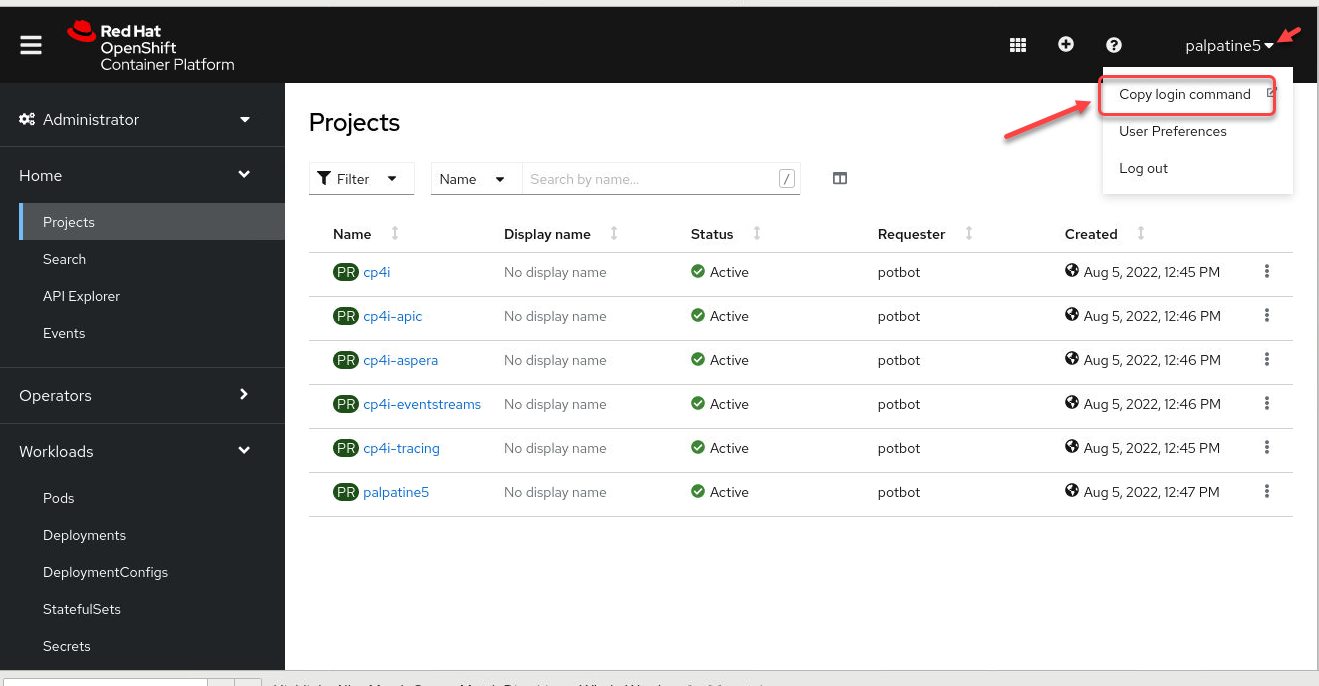
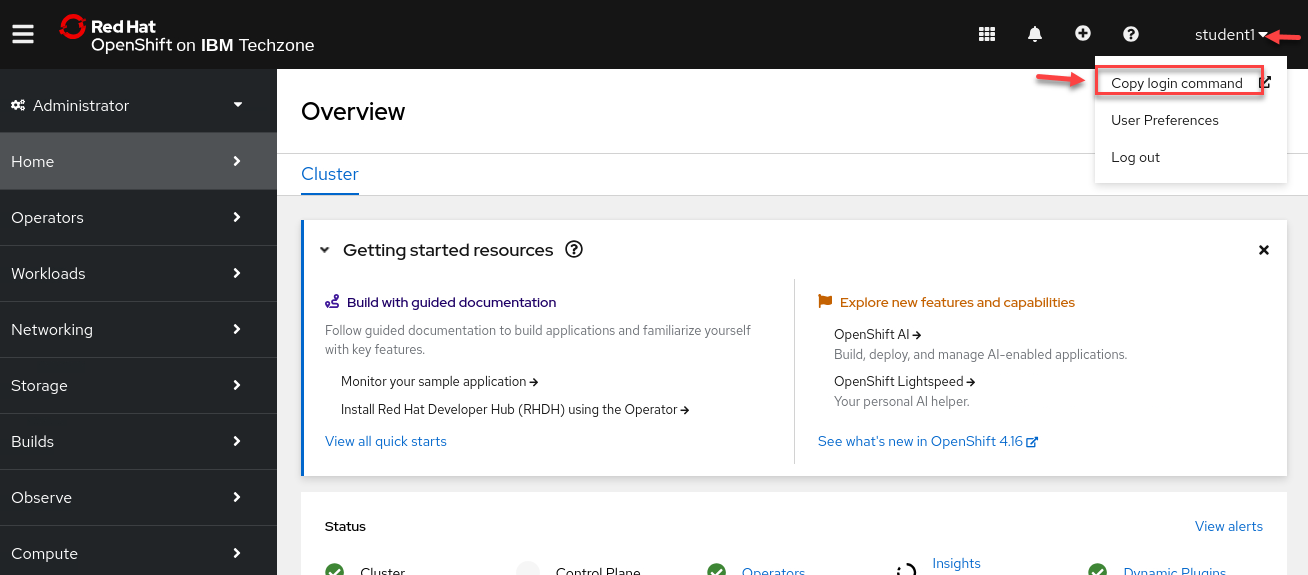
Update MQ labs

diff --git a/MQ/Lab_3/Readme.md b/MQ/Lab_3/Readme.md
@@ -33,16 +33,6 @@ If you are doing this lab out of order return to [Environment Setup](../envsetup
 
 The lab guide assumes you are using the RHEL desktop VM from the IBM Asset Repo. If you are using another platform, you can download the necessary artifacts from the github repo. The instructor will provide directions.
 
-**Note**: The screen shots were taken on a test cluster and many will not match what you see when running the lab. Particularly URL values will be different depending on the cluster where CP4I is running. Projects (Namespaces) may also vary. It is important to follow the directions, not the pictures.
-
-#### Further information
-
-* [IBM MQ Knowledge Center](https://www.ibm.com/docs/en/ibm-mq/9.2?topic=mq) 
-* “Building scalable fault tolerant systems with IBM MQ 9.1.2 CD” article by David Ware, STSM, Chief Architect, IBM MQ: 
-[David Ware article](https://developer.ibm.com/messaging/2019/03/21/building-scalable-fault-tolerant-ibm-mq-systems/)
-* “Active/active IBM MQ with Uniform Clusters” video by David Ware:
-[YouTube Demo Video](https://www.youtube.com/watch?v=LWELgaEDGs0&feature=youtu.be)
-
 ## Configure the cluster using yaml
 
 1. Open a Firefox web browser by double-clicking the icon on the desktop.
@@ -51,30 +41,35 @@ The lab guide assumes you are using the RHEL desktop VM from the IBM Asset Repo.
 	
 1. Navigate to the URL for the OCP console provided in your PoT email. If required to log in use the userid / password provided in the email.
 
-	![](./images/image304.png)
+	![](./images/image304a.png)
+
+	![](./images/image304b.png)
 
 1. Then add another browser tab by clicking the "+" sign and opening the *CP4I Navigator* URL for the platform navigator provided in your PoT email.
 
-	![](./images/image306.png)
+	![](./images/image304c.png)
 
 1. You may still be logged in from the previous labs. If your platform navigator session timed out, you may be required to log-in again.
 
 	
 1. Once the navigator opens, right click on the **Integration instances** and open in a new tab.
 
-	![](./images/image306b.png)
+	![](./images/image304d.png)
 	
 1. If you ran the *Cleanup* step in prior labs there should be none of your queue managers running. However there may be other's instances running. 
 
-	![](./images/image308.png)
+	![](./images/image304e.png)
 	
 	If you have any remaining *mqxx* (xx = your student ID), delete them now.
 
 1. Open a new terminal window by double-clicking the icon on the desktop.
 
-	![](./images/pots/mq-cp4i/lab2/image1a.png)
+	![](./images/image1a.png)
 
 1. Navigate to the */MQonCP4I/unicluster/* directory using the following commnand:
+	```
+	cd ~/MQonCP4I/unicluster
+	```
 
 1. There are two subdirectories, *deploy* and *test*. Change to the *deploy* directory.
 
@@ -124,20 +119,18 @@ The lab guide assumes you are using the RHEL desktop VM from the IBM Asset Repo.
 The queue managers will be in a *Pending* state for a couple of minutes while they are provisioned.
  
  	![](./images/image214.png)
-		
-1. On the *OpenShift Console* you can watch the pods as they create containers. Click *Workloads* then select *Pods*. You will see a pod for each queue manager and you will see states of *Pending*, *Container creating*, and then *Running*.
-
-	![](./images/image312.png)
-	
-	![](./images/image313.png)
 
 1. After a few minutes the queue managers will then show *Ready* on the *Platform Navigator* and the pods will show *Running* on the *OpenShift Console*.
-	
-	![](./images/image315.png)
-	
-	![](./images/image314.png)
 
-1. Your cluster is also now completely configured. Check this from the *MQ Console* of one of thee queue managers. Click the hyperlink for your mq..a
+ 	![](./images/image214.png)
+
+## Check uniform cluster health
+
+If you like you can go to **Appendix A** which has directions for testing Uniform cluster using **MQExplorer**
+
+But with all the new features that have been added to the **MQ Console** you can verify the cluster using the MQ console.  This section will hightlight the MQ console.
+
+1. Your cluster is also now completely configured. Check this from the *MQ Console* of one of three queue managers. Click the hyperlink for your mq..a
 
 	![](./images/image20.png)
 	
@@ -151,13 +144,13 @@ The queue managers will be in a *Pending* state for a couple of minutes while th
 	
 1. You will see the two local queues **APPQ** and **APPQ2** which were defined by the mqsc *ConfigMap* defined in the yaml template. The other queue managers also have the queues by that name. 
 
-	![](./images/image23.png)
+	![](./images/image22a.png)
 	
 	Click *Communication*.
 	
 1. The listener *SYSTEM.LISTENER.TCP.1* is running. 
 
-	![](./images/image24.png)
+	![](./images/image22b.png)
 	
 	Click *App channels*.
 		
@@ -165,116 +158,20 @@ The queue managers will be in a *Pending* state for a couple of minutes while th
 
 **NOTE:** Make note of the MQ00CHLA name you will have one for each Qmgr and will use that in connecting with MQ Explorer.
 
-![](./images/image25.png)
+![](./images/image22c.png)
 	
 	Click *Queue manager channels*.
 	
 1. Here you find your cluster channels. If you looked closely at the yaml template, you'll remember that your *mqxxa* and *mqxxb* are the primary repositories for your cluster *UNICLUSxx*. While looking at *mqxxa* you see a cluster receiver channel **TO_UNICLUS_MQ00A** and two cluster sender channels **TO_UNICLUS_MQ00B** and **TO_UNICLUS_MQ00C**. They should be *Running*. 
 	
-	![](./images/image26.png)
+	![](./images/image22d.png)
 	
 	Click *View Configuration* in the top right corner.
-
-1. The queue manager properties are displayed. Click *Cluster* to see the cluster properties where you see your cluster name - UNICLUSxx.
-
-	![](./images/image27.png)
 
 1. You can check the other queue manager's console to verify that they are all configured the same. You should have verified that when reviewing the yaml template.
 
 	You are all set, time for testing.
 
-## Test uniform cluster
-
-### Perform health-check on Uniform Cluster
-
-Before proceeding, we need to check the cluster is up and running.
-1. Open a new terminal window.
- 
- Enter the following command to start MQ Explorer making sure to use the correct case:
-
-	```
-	MQExplorer
-	```
-	
- ![](./images/image247.png)
-
-1. When the utility is ready, right-click *Queue Managers* and select *Add Remote Queue Manager*.
-
-	![](./images/image248.png)
-
-1. Enter your queue manager name using your student ID. Click *Next*.
-
-	![](./images/image249.png)
-
-1. We will now need to get the hostname for this Qmgr to connect to it outside the OCP cluster to MQExplorer.   
-Run the following command 
-
-```
-oc get route -n melch1 | grep mq01a
-```
-Copy the hostname 
-	![](./images///image249a.png)
-
-*	Enter the value from the *hostname* above. 
-*	Enter **443** for the *Port number*.
-*	Enter your SVRCONN channel name in the *Server-connection channel* field.
-	
-	**Note** for the uniform cluster lab do not click the checkbox for Multi-instance queue manager.
-	
-	Click *Next* three times.
-	
-	![](./images///image138.png)
-	
-	[For more information refer to KnowledgeCenter](https://www.ibm.com/support/knowledgecenter/SSFKSJ_9.1.0/com.ibm.mq.ctr.doc/cc_conn_qm_openshift.htm)
-		
-1. Click the checkbox for *Enable SSL key repositories*. Click *Browse* and navigate to */home/ibmuser/MQonCP4I/tls* and select **MQExplorer.jks**. Then click *Open*.
-
-	![](./images///image139.png)
-	
-1. Click the *Enter password* button and enter the jks password **'password'**. Click *OK* then *Next*.
-
-	![](./images///image140.png)
-	
-1. On the next screen click the checkbox for *Enable SSL options*. Click the drop-down next to *SSL CipherSpec* and select **ANY_TLS12_OR_HIGHER**.
-
-	![](./images///image141.png)
-	
-1. Click *Finish*. You will get a pop-up saying "Trying to connect to the queue manager".
-
-	![](./images///image141a.png)
-	
-1. After a few seconds you see that MQ Explorer has connected. The Queue Manager will be added and shown in the navigator.
-
-	![](./images/image142.png)
-	
-1. Operate MQ Explorer as you normally would. Expand the queue manager and "explore" MQ looking at queues, channels, etc.
-
-	![](./images/image143.png)
-
-
-**You now have the hosts to connect to the QMgrs Connect all 3 Qmgrs in MQExplorer**
-
-1. Expand *Queue Manager Clusters* to confirm that queue managers **mqxxa** and **mqxxb** have full repositories, while **mqxxc** has a partial repository.
-
-	![](./images/image215.png)
-	
-1. You observed the cluster channels in the MQ Console, but you can verify them in MQ Explorer also. Since *mqxxc* is a partial repository, it has two cluster sender channels, one to each full repository.
-
-	![](./images/image31.png)
-
-1. Check that Cluster Sender and Receiver Channels for each queue manager are running and if not, start them.
-
-	![](./images/image30.png)
-
-	**Note**: the Server Connection Channels will be inactive – do not attempt to start these.
-	
-1. Right-click you cluster name and select *Tests* > *Run Default Tests*.
-	
-	![](./images/image32.png)
-	
-1. Check that there are no errors or warnings resulting in the *MQ Explorer - Test Results*.
-
-	![](./images/image33.png)
 
 ## Launch getting applications
 
@@ -789,3 +686,93 @@ Run the command with the arugments that you used in the EnvSetup using your Stud
 
 [Return to MQ lab page](../index.md#introduction)
 
+# Appendix A
+Perform health-check on Uniform Cluster using MQExplorer
+
+1. Open a new terminal window.
+ 
+ Enter the following command to start MQ Explorer making sure to use the correct case:
+
+	```
+	MQExplorer
+	```
+	
+ ![](./images/image247.png)
+
+1. When the utility is ready, right-click *Queue Managers* and select *Add Remote Queue Manager*.
+
+	![](./images/image248.png)
+
+1. Enter your queue manager name using your student ID. Click *Next*.
+
+	![](./images/image249.png)
+
+1. We will now need to get the hostname for this Qmgr to connect to it outside the OCP cluster to MQExplorer.   
+Run the following command 
+
+```
+oc get route -n melch1 | grep mq01a
+```
+Copy the hostname 
+	![](./images///image249a.png)
+
+*	Enter the value from the *hostname* above. 
+*	Enter **443** for the *Port number*.
+*	Enter your SVRCONN channel name in the *Server-connection channel* field.
+	
+	**Note** for the uniform cluster lab do not click the checkbox for Multi-instance queue manager.
+	
+	Click *Next* three times.
+	
+	![](./images///image138.png)
+	
+	[For more information refer to KnowledgeCenter](https://www.ibm.com/support/knowledgecenter/SSFKSJ_9.1.0/com.ibm.mq.ctr.doc/cc_conn_qm_openshift.htm)
+		
+1. Click the checkbox for *Enable SSL key repositories*. Click *Browse* and navigate to */home/ibmuser/MQonCP4I/tls* and select **MQExplorer.jks**. Then click *Open*.
+
+	![](./images///image139.png)
+	
+1. Click the *Enter password* button and enter the jks password **'password'**. Click *OK* then *Next*.
+
+	![](./images///image140.png)
+	
+1. On the next screen click the checkbox for *Enable SSL options*. Click the drop-down next to *SSL CipherSpec* and select **ANY_TLS12_OR_HIGHER**.
+
+	![](./images///image141.png)
+	
+1. Click *Finish*. You will get a pop-up saying "Trying to connect to the queue manager".
+
+	![](./images///image141a.png)
+	
+1. After a few seconds you see that MQ Explorer has connected. The Queue Manager will be added and shown in the navigator.
+
+	![](./images/image142.png)
+	
+1. Operate MQ Explorer as you normally would. Expand the queue manager and "explore" MQ looking at queues, channels, etc.
+
+	![](./images/image143.png)
+
+
+**You now have the hosts to connect to the QMgrs Connect all 3 Qmgrs in MQExplorer**
+
+1. Expand *Queue Manager Clusters* to confirm that queue managers **mqxxa** and **mqxxb** have full repositories, while **mqxxc** has a partial repository.
+
+	![](./images/image215.png)
+	
+1. You observed the cluster channels in the MQ Console, but you can verify them in MQ Explorer also. Since *mqxxc* is a partial repository, it has two cluster sender channels, one to each full repository.
+
+	![](./images/image31.png)
+
+1. Check that Cluster Sender and Receiver Channels for each queue manager are running and if not, start them.
+
+	![](./images/image30.png)
+
+	**Note**: the Server Connection Channels will be inactive – do not attempt to start these.
+	
+1. Right-click you cluster name and select *Tests* > *Run Default Tests*.
+	
+	![](./images/image32.png)
+	
+1. Check that there are no errors or warnings resulting in the *MQ Explorer - Test Results*.
+
+	![](./images/image33.png)

diff --git a/MQ/Msg-Pre-lab/mqsetup/mq_setup_steps.md b/MQ/Msg-Pre-lab/mqsetup/mq_setup_steps.md
@@ -5,9 +5,9 @@
 <a name="download"></a>	
 ## Download artifacts for MQ on CP4I PoT
 
-You should be logged on your VDI as *student*. 
+You should be logged on your VDI as *ibmuser*. 
 
-1. Open a Firefox browser tab and navigate to [Github MQonCP4i](https://github.com/jjodl/mqoncp4i).
+1. Open a Firefox browser tab and navigate to [Github MQonCP4i](https://github.com/ibm-cloudintegration/mqoncp4i-2025).
 
 	![](./images/image108.png)
 	
@@ -19,9 +19,9 @@ You should be logged on your VDI as *student*.
 
 	![](./images/image110.png)
 	
-1. Open a terminal window by double-clicking the icon on the desktop.
+1. Open a terminal window by clicking on the **Application** on top menu and under **Favorites** click the icon for **Terminal**.
 
-	![](./images/image111.png)
+	![](./images/setup1.png)
 	
 1. Enter the following command to see the zip file you just downloaded.
 
@@ -61,16 +61,11 @@ You should be logged on your VDI as *student*.
 	find . -type f -iname "*.sh" -exec chmod +x {} \;
 	```
 	
-![](./images/image114a.png)
+	![](./images/setup3.png)
 
-9. Now we will change to the **setup** directory to run the script that will create all the install scripts for your userid.  
+9. Now we will run the script that will create all the install scripts for your userid.  
 	
-	```sh
-	cd setup
-	ls -l 
-	```
-	
-	![](./images/image114b.png)
+	![](./images/setup4.png)
 
 1. 	Now run the MQ_script_setup.sh You will use your student id that was given to you from the instructor.
 
